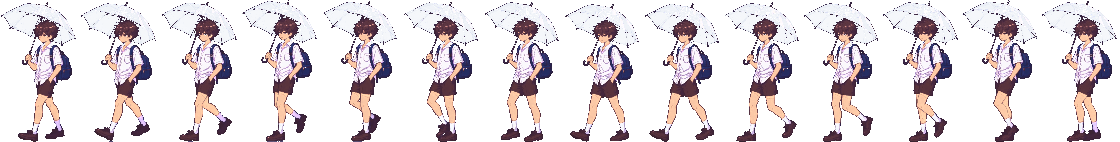
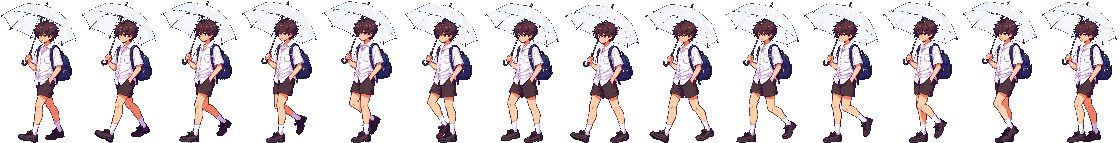
Umbrella sprites: no floating, same colours standing and walking
Compression noise on the video's bottom rows was taken for the ground in some
frames, shifting the body 4 px up and down; the frame edges are now ignored
and a ground row needs a few pixels. Colours now come from the in-game idle
sprite by materials (skin, hair, shirt, bag, darkest), fitted as one smooth
affine function that works for any pose (the overlay fit gave the walk paler
skin than the standing pose). Offsets updated for the new sheet width.

Claude-Session: https://claude.ai/code/session_011NAKRUA9btL4iodwTEM3Dh

diff --git a/tools/import_char_video.py b/tools/import_char_video.py
@@ -33,10 +33,13 @@ from import_idle_video import colour_match  # noqa: E402
 from import_walk_video import landmarks, shift_img  # noqa: E402
 
 
-def key(rgb, bg, threshold):
+def key(rgb, bg, threshold, border=4):
     mask = np.sqrt(((rgb - bg) ** 2).sum(2)) > threshold
     n = sum(np.roll(np.roll(mask, dy, 0), dx, 1) for dy in (-1, 0, 1) for dx in (-1, 0, 1))
-    return mask & (n >= 4)                           # drop compression specks
+    mask &= n >= 4                                   # drop compression specks
+    mask[:border] = mask[-border:] = False           # the frame's edge rows/columns are noisy
+    mask[:, :border] = mask[:, -border:] = False
+    return mask
 
 
 def body_marks(rgb, mask):
@@ -45,7 +48,7 @@ def body_marks(rgb, mask):
     mx = rgb.max(2)
     hair = mask & (mx < 150) & (r > b + 20) & (r > g) & (mx > 30)
     white = mask & (rgb.min(2) > 195)
-    ys = np.nonzero(mask.any(1))[0]
+    ys = np.nonzero(mask.sum(1) >= 6)[0]            # a few stray pixels don't make a ground row
     ground = ys.max()
     hair_top = np.nonzero(hair.sum(1) >= 25)[0].min()
     collar = hair_top + 60 + np.nonzero(white[hair_top + 60:].sum(1) >= 40)[0].min()
@@ -71,6 +74,46 @@ def unmix(rgb, mask, bg, plastic, rows):
     return out, alpha
 
 
+def materials(px):
+    """Masks of the materials every sprite of the hero has, by colour."""
+    r, g, b = px[:, 0], px[:, 1], px[:, 2]
+    mx, mn = px.max(1), px.min(1)
+    lum = px @ np.array((0.299, 0.587, 0.114))
+    return {
+        "skin": (r > 180) & (r - b > 50) & (g > 110) & (g < 205),
+        "skin shade": (r > 120) & (r <= 180) & (r - b > 40) & (g > 60),
+        "hair, shoes": (mx < 150) & (mx > 25) & (r > b + 15) & (r >= g),
+        "shirt, socks": mn > 185,
+        "shirt shade": (mn > 140) & (mn <= 185) & (b >= r - 10),
+        "bag": (b > r + 25) & (mx < 150),
+        "darkest": lum < 45,
+    }
+
+
+def colour_transfer(frames, solid, ref_px):
+    """Give the frames the colours of a reference sprite with one smooth (affine) colour
+    function, fitted so the average colour of each material (skin, hair, shirt, bag...)
+    lands on the reference's. Works whatever the pose (unlike laying the frame over the
+    still)."""
+    src = np.concatenate([f[..., :3][m] for f, m in zip(frames, solid)]).astype(float)
+    ms, mr = materials(src), materials(ref_px)
+    rows, targets, weights = [], [], []
+    for name in ms:
+        if ms[name].sum() >= 30 and mr[name].sum() >= 30:
+            rows.append(np.r_[src[ms[name]].mean(0), 1])
+            targets.append(ref_px[mr[name]].mean(0))
+            weight = np.sqrt(min(ms[name].sum(), mr[name].sum()))
+            weights.append(weight * (3 if name == "skin" else 1))   # skin is what the eye checks first
+    W = np.array(weights)[:, None]
+    A, *_ = np.linalg.lstsq(np.array(rows) * W, np.array(targets) * W, rcond=None)
+    out = []
+    for f, m in zip(frames, solid):
+        g = f.copy()
+        g[..., :3][m] = np.clip(np.c_[g[..., :3][m].astype(float), np.ones(m.sum())] @ A, 0, 255).round()
+        out.append(g)
+    return out
+
+
 def main():
     ap = argparse.ArgumentParser()
     ap.add_argument("video")
@@ -84,6 +127,9 @@ def main():
     ap.add_argument("--bg", default="auto", help="background colour R,G,B (auto: median of the frame border)")
     ap.add_argument("--threshold", type=float, default=30, help="colour distance from the background")
     ap.add_argument("--glass", action="store_true", help="unmix a see-through prop above the collar")
+    ap.add_argument("--match", nargs=2, metavar=("SHEET", "FRAMES"),
+                    help="take the colours of this sprite sheet (materials matched, any pose); "
+                         "default: lay the first frame over the --palette still")
     ap.add_argument("--plastic", default="226,232,242", help="colour of the see-through prop itself")
     args = ap.parse_args()
 
@@ -157,12 +203,19 @@ def main():
                     out[j, i, 3] = np.median(al[ys_, xs_][m])
         result.append(out.round().astype(np.uint8))
         glassy.append((out[..., 3] > 0) & (out[..., 3] < 250))
-    matched = colour_match([np.where(gl[..., None], 0, f) for f, gl in zip(result, glassy)], ref)
-    final = []
-    for m, f, gl in zip(matched, result, glassy):
-        m = m.copy()
-        m[gl] = f[gl]                             # the clear prop keeps its unmixed colour
-        final.append(m)
+    if args.match:
+        path, n = args.match[0], int(args.match[1])
+        sheet_ref = np.asarray(Image.open(path).convert("RGBA"))
+        ref_px = sheet_ref[..., :3][sheet_ref[..., 3] >= 250].astype(float)
+        solid = [(f[..., 3] >= 250) for f in result]      # not the clear prop: it keeps its colour
+        final = colour_transfer(result, solid, ref_px)
+    else:
+        matched = colour_match([np.where(gl[..., None], 0, f) for f, gl in zip(result, glassy)], ref)
+        final = []
+        for m, f, gl in zip(matched, result, glassy):
+            m = m.copy()
+            m[gl] = f[gl]                             # the clear prop keeps its unmixed colour
+            final.append(m)
 
     sheet = Image.new("RGBA", (out_w * len(final), out_h), (0, 0, 0, 0))
     for i, f in enumerate(final):

diff --git a/README.md b/README.md
@@ -255,9 +255,11 @@ python3 tools/import_sprite.py art_source/hero_umbrella_fixed_greenscreen.png as
 
 ```
 python3 tools/import_char_video.py art_source/hero_umbrella_idle_greenscreen.mp4 assets/characters/hero_umbrella_idle.png \
-    --start 49 --end 95 --step 2 --palette assets/characters/hero_uniform.png --align feet --glass
+    --start 49 --end 95 --step 2 --palette assets/characters/hero_uniform.png --align feet --glass \
+    --match assets/characters/hero_idle_video.png 36
 python3 tools/import_char_video.py art_source/hero_umbrella_walk.mp4 assets/characters/hero_umbrella_walk.png \
-    --start 20 --end 46 --step 2 --palette assets/characters/hero_uniform.png --align torso --glass
+    --start 20 --end 46 --step 2 --palette assets/characters/hero_uniform.png --align torso --glass \
+    --match assets/characters/hero_idle_video.png 36
 python3 tools/steady_walk_head.py assets/characters/hero_umbrella_walk.png --frames 14 \
     --measure 30 85 --cut 96 112 --bob 1 1 0 -1 -1 0 0 1 1 0 0 -1 -1 0
 ```
@@ -266,6 +268,9 @@ python3 tools/steady_walk_head.py assets/characters/hero_umbrella_walk.png --fra
 เก็บแสงเงาของวิดีโอ ปรับโทนรวมให้ตรงกับภาพยืน วางเท้าแถวเดียวกัน จัดแนวด้วยเท้า (ยืน) หรือเสื้อ (เดิน) ขนาดให้ปกเสื้อสูง 95px เท่าภาพอื่น
 `--glass`: ร่มใสเห็นพื้นหลังทะลุ: เหนือปกเสื้อ พิกเซลที่อยู่ระหว่างสีพื้นหลังกับสีพลาสติกกลายเป็นพลาสติกโปร่งแสง (สีเดียว รูปร่างอยู่ที่ความโปร่ง)
 (ผมสีเข้มกว่าพื้นหลัง ไม่นับเป็นร่ม)
+`--match`: สีเอามาจากภาพยืนในเกม (`hero_idle_video.png`) โดยจับคู่ตามวัสดุ (ผิว ผม เสื้อ กระเป๋า เงาเข้ม) แล้วหาฟังก์ชันสีเรียบตัวเดียว
+ใช้ได้ทุกท่า (วางทับภาพนิ่งแบบเดิมใช้ไม่ได้กับท่าเดิน: ได้สีผิวซีดกว่าท่ายืน) ท่ายืนกับท่าเดินถือร่มจึงสีเดียวกันและเท่าพระเอกปกติ
+ขอบล่างสุดของวิดีโอมีจุดรบกวนจากการบีบอัด: ไม่นับแถว/คอลัมน์ขอบภาพ และแถวพื้นต้องมีพิกเซลพอ (ไม่งั้นบางเฟรมเลื่อนตัวลอยขึ้นลง 4px)
 สัดส่วนหัว/ตัวในวิดีโอถือร่มเท่ากับวิดีโอยืน/เดินเดิมที่ใช้ในเกม (หัว:ตัว 0.565 vs 0.55) จึงไม่ต้องย่อหัว
 ท่ายืน: เฟรม 49-95 (เฟรม 97 แทบเหมือน 49 วนได้เนียน) 24 เฟรม ท่าเดิน: รอบก้าว 28 เฟรมวิดีโอ = 14 เฟรม
 ช่วงบนนิ่ง + ยุบ/ยืด 1px ตามก้าวแบบท่าเดินปกติ (ขากางสุดเฟรม 0-1, 7-8 / ขาสวนเฟรม 3-4, 11-12)
